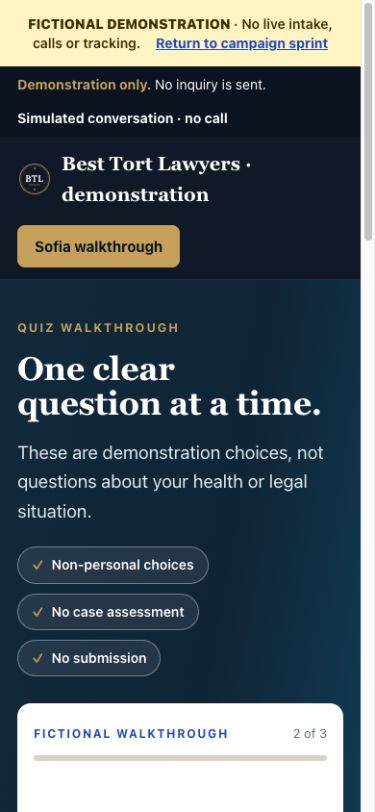
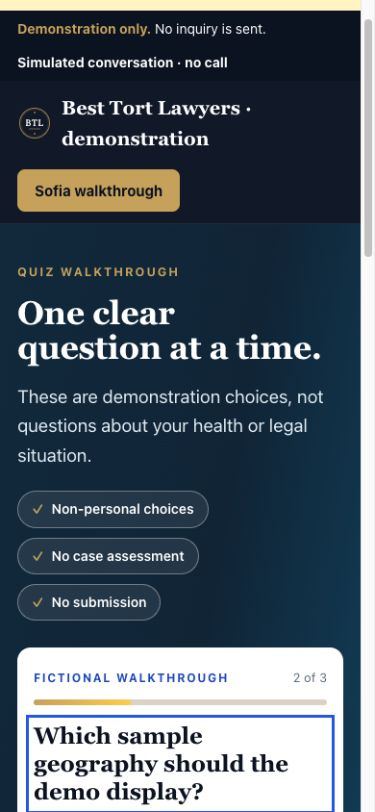
Refresh settled quiz screenshots for draft review

diff --git a/docs/campaign-sprint/screenshot-refresh.md b/docs/campaign-sprint/screenshot-refresh.md
@@ -1,0 +1,9 @@
+# Settled quiz screenshot refresh
+
+The independent reviewer passed application commit b3abf0d95a6db50a5534f4066117f02d4d8ae418.
+Before draft PR preparation, quiz-keyboard-focus.png (1440px) and
+quiz-keyboard-mobile.png (390px) were captured again after the existing 250ms fade.
+The heading was confirmed visible in both actual browser screenshots after a separate
+accessibility-state observation and subsequent capture. No application code or
+animation setting changed. The local preview server was used only by this builder.
+The original reviewer's environment was not accessed or modified.
